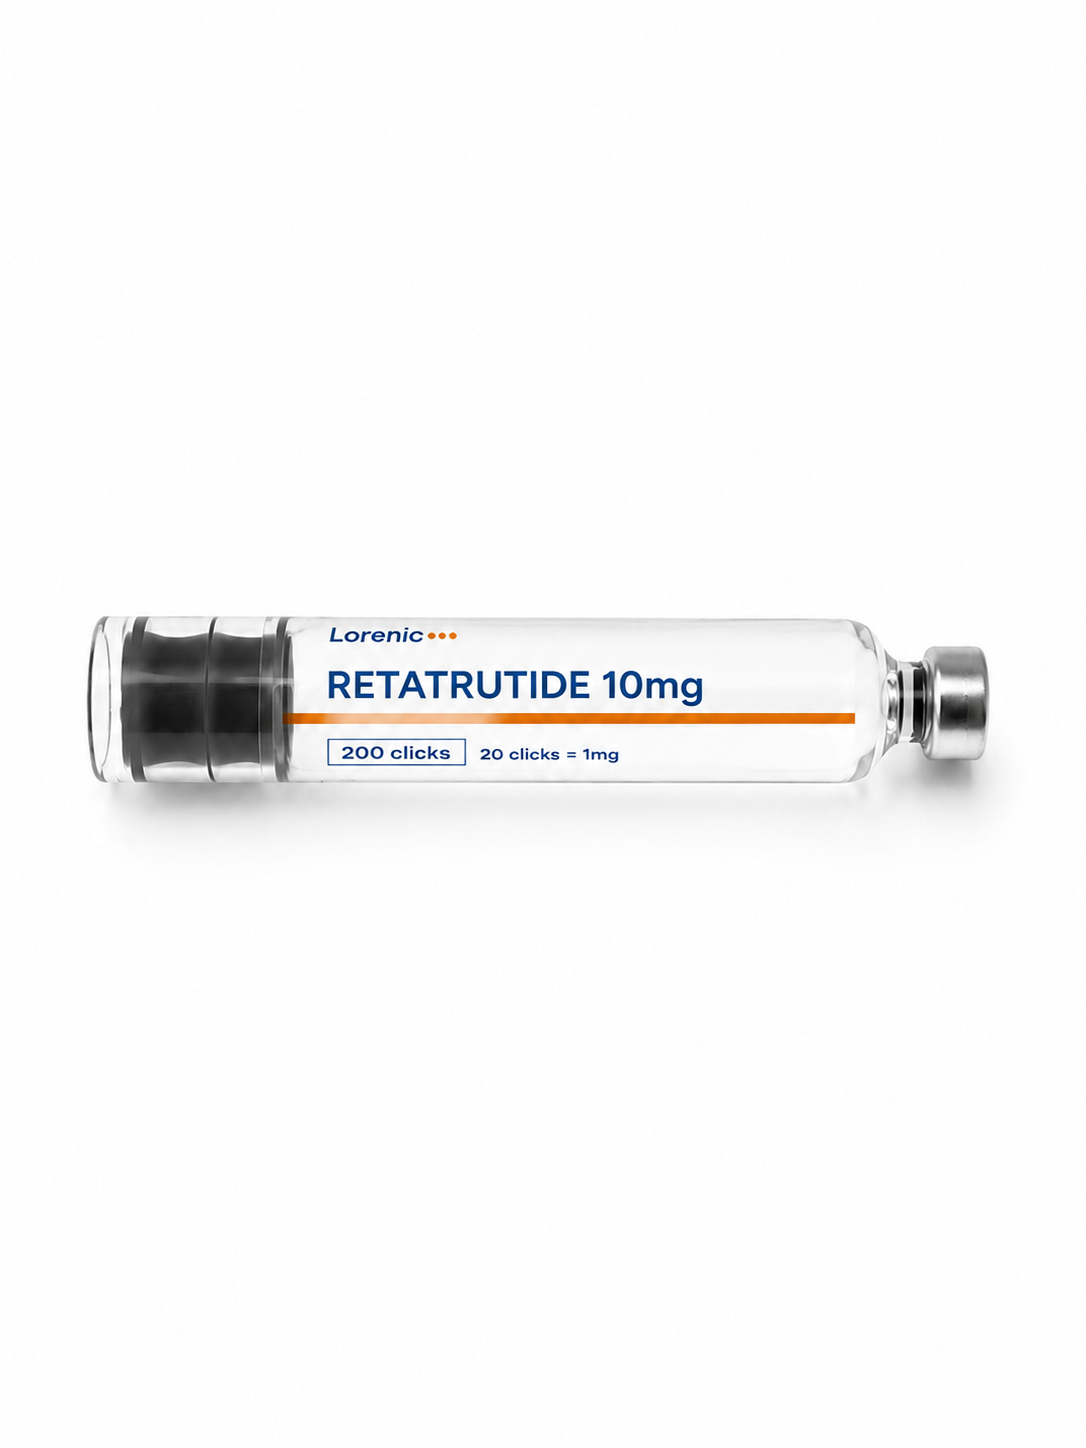
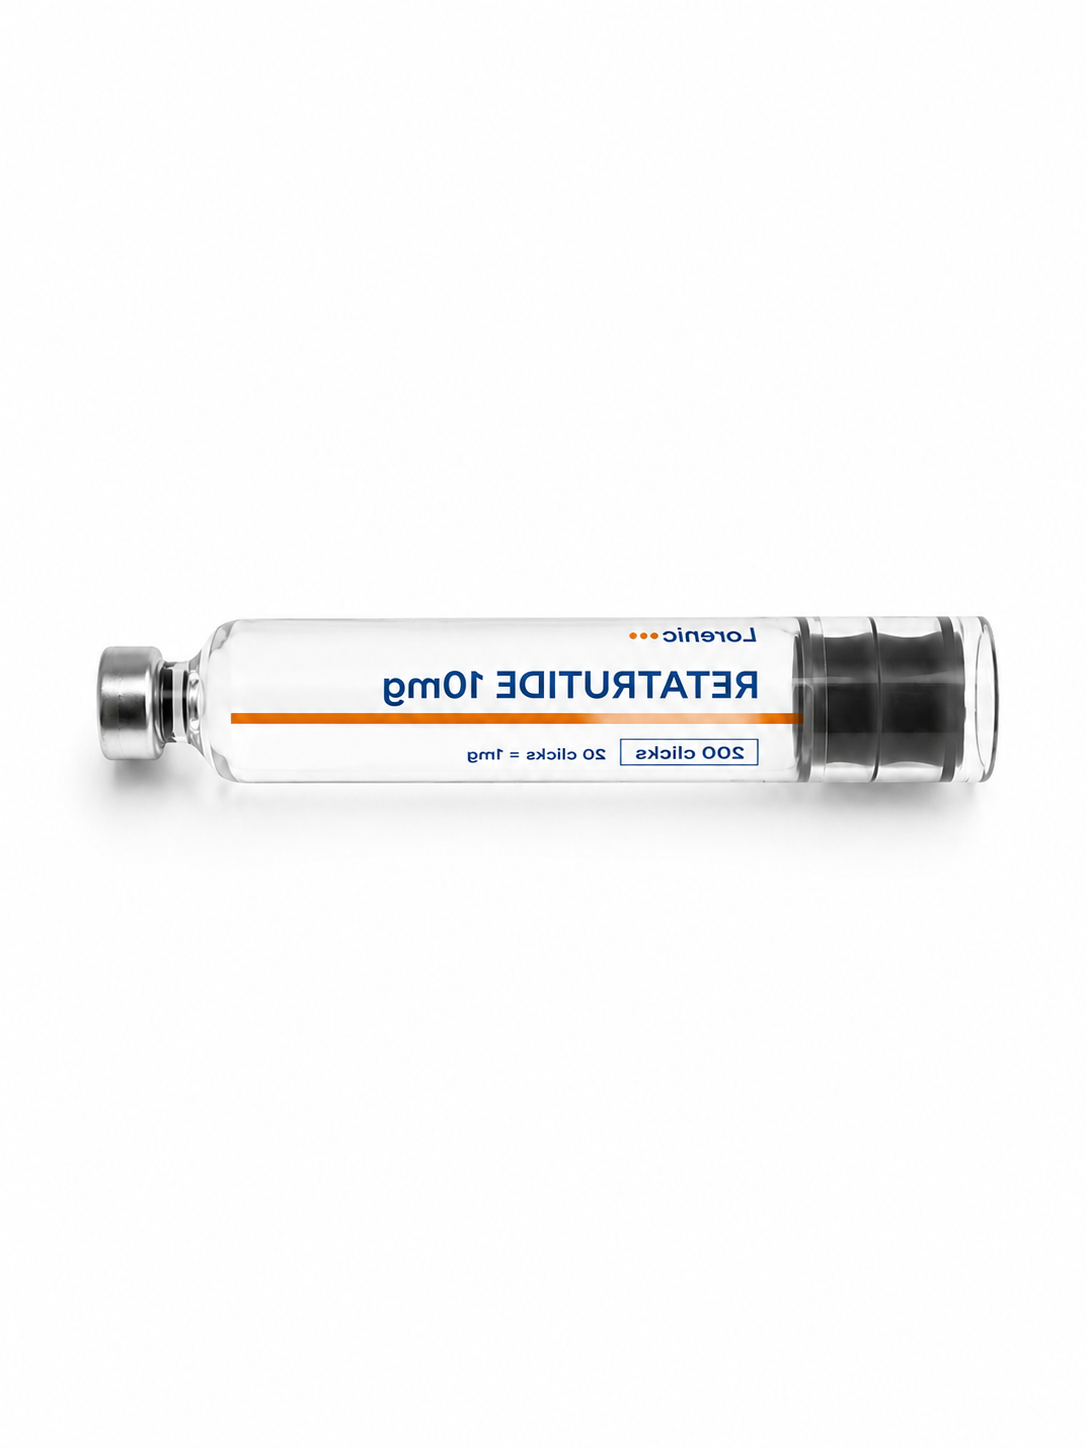
Add new products (KPV, Semax, Selank, HGH, Tirzepatide, Semaglutide, Glutathione), flip retatrutide image, update email to cs@lorenic.id, add WhatsApp contact 087769004800, randomize reviews with roles, and refine package image container

Changed region(s): [[0.3039, 0.4351, 0.6989, 0.5283], [0.6989, 0.404, 0.942, 0.5905], [0.0608, 0.404, 0.3039, 0.5905]]

diff --git a/components/reviews.tsx b/components/reviews.tsx
@@ -1,46 +1,69 @@
+'use client'
+
+import { useEffect, useState } from 'react'
 import { Star } from 'lucide-react'
 import { Reveal, Stagger, StaggerItem } from '@/components/reveal'
 
-const reviews = [
+const ALL_REVIEWS = [
   {
-    body: 'Protokolnya jelas, tim sangat responsif, dan produk tiba dalam kondisi sempurna. Tidak ada yang dibiarkan menebak-nebak.',
-    initial: 'A',
-    name: 'Andreas',
-    detail: '44, Pengusaha',
-  },
-  {
-    body: 'Akhirnya ada brand yang menunjukkan hasil labnya. Saya merekomendasikannya kepada siapa saja yang serius tentang kesehatan jangka panjang.',
+    body: 'Sebagai pendiri startup biotech, saya mengutamakan transparansi data uji lab di atas segalanya. Lorenic memberikan standar COA Eropa yang konsisten di setiap batch.',
     initial: 'M',
-    name: 'Michael',
-    detail: '42, Pendiri',
+    name: 'Michael S.',
+    detail: 'Pendiri & Biohacker (38th)',
   },
   {
-    body: 'Konsultasi gratis memberikan perbedaan besar. Mereka benar-benar memahami apa yang saya cari.',
-    initial: 'S',
-    name: 'Sofia',
-    detail: '35, Atlet',
-  },
-  {
-    body: 'Kualitas premium tanpa keraguan. Semuanya terdokumentasi dengan sangat baik.',
+    body: 'Protokolnya sangat rinci dan didukung penjelasan ilmiah yang solid. Kualitas peptida yang sangat konsisten untuk penelitian regeneratif.',
     initial: 'D',
-    name: 'David',
-    detail: '51, Eksekutif',
+    name: 'Dr. Hendra W.',
+    detail: 'Dokter Spesialis Regeneratif & Longevity (45th)',
   },
   {
-    body: 'Saya telah mencoba beberapa sumber peptida. Lorenic adalah satu-satunya yang menyediakan COA tanpa harus diminta.',
+    body: 'Format pen dan cartridge pra-terukur sangat memudahkan pemakaian rutin tanpa ribet. Pengiriman cold chain juga menjaga potensi peptida tetap 100%.',
+    initial: 'S',
+    name: 'Sofia R.',
+    detail: 'Atlet Profesional & Bio-Optimizer (29th)',
+  },
+  {
+    body: 'Layanan konsultasi gratisnya sangat membantu menjawab pertanyaan spesifik mengenai riset kami. Tim sangat responsif dan paham sains peptida.',
+    initial: 'A',
+    name: 'Andreas K.',
+    detail: 'Peneliti Klinis Independen (41th)',
+  },
+  {
+    body: 'Lorenic adalah satu-satunya penyedia peptida riset di mana kita bisa memeriksa COA instan melalui QR code pada setiap kemasan fisik.',
     initial: 'R',
-    name: 'Rafael',
-    detail: '38, Dokter Umum',
+    name: 'Reza A.',
+    detail: 'Pendiri Komunitas Health & Performance (34th)',
   },
   {
-    body: 'Saya sangat mengapresiasi transparansinya. COA dapat diperiksa secara instan dan tim merespons dengan cepat.',
+    body: 'Kualitas dan kemurnian peptida sangat terasa dari stabilitas hasilnya. Kemasan dingin dan segel laboratoriumnya sangat profesional.',
     initial: 'T',
-    name: 'Tanja',
-    detail: '39, Konsultan',
+    name: 'Tanja M.',
+    detail: 'Konsultan Kesehatan & Anti-Aging (39th)',
+  },
+  {
+    body: 'Pelayanan cepat, pengiriman aman, dan sertifikat pengujian independen selalu disertakan. Sangat direkomendasikan!',
+    initial: 'B',
+    name: 'Budi H.',
+    detail: 'Eksekutif & Praktisi Longevity (48th)',
+  },
+  {
+    body: 'BPC-157 dan Retatrutide dari Lorenic memberikan standar tingkat tinggi yang sulit ditemukan di penyedia lain.',
+    initial: 'K',
+    name: 'Kevin L.',
+    detail: 'Biohacker & Formulator (32th)',
   },
 ]
 
 export function Reviews() {
+  const [displayReviews, setDisplayReviews] = useState(ALL_REVIEWS.slice(0, 6))
+
+  useEffect(() => {
+    // Shuffle reviews slightly on load for dynamic variation
+    const shuffled = [...ALL_REVIEWS].sort(() => 0.5 - Math.random())
+    setDisplayReviews(shuffled.slice(0, 6))
+  }, [])
+
   return (
     <section id="ulasan" className="bg-secondary py-16 md:py-24">
       <div className="mx-auto w-full max-w-6xl px-4 sm:px-6">
@@ -55,14 +78,14 @@ export function Reviews() {
               ))}
             </span>
             <span className="text-sm font-medium text-muted-foreground">
-              <strong className="text-foreground">4.9</strong> dari 107 ulasan
+              <strong className="text-foreground">4.95</strong> dari 142 ulasan
               terverifikasi
             </span>
           </div>
         </Reveal>
 
         <Stagger className="mt-12 grid gap-4 sm:gap-6 md:grid-cols-2 lg:grid-cols-3">
-          {reviews.map((review) => (
+          {displayReviews.map((review) => (
             <StaggerItem
               key={review.name + review.detail}
               className="flex flex-col rounded-2xl border border-border bg-card p-6"

diff --git a/lib/products.ts b/lib/products.ts
@@ -52,10 +52,30 @@ export const products: Product[] = [
     name: 'Retatrutide 10mg',
     category: 'PENURUNAN LEMAK & PEMBENTUKAN OTOT',
     image: getAssetPath('/products/retatrutide.jpeg'),
-    tagline: 'Agonis tiga reseptor yang dipelajari untuk komposisi tubuh.',
+    tagline: 'Agonis tiga reseptor (GLP-1/GIP/Glukagon) untuk komposisi tubuh.',
     description:
       'Retatrutide adalah agonis tiga reseptor (GLP-1 / GIP / glukagon) yang dipelajari dalam konteks riset untuk efeknya terhadap keseimbangan energi, sinyal nafsu makan, dan komposisi tubuh. Disediakan dalam cartridge riset 10mg.',
     dosage: '200 klik · 20 klik = 1mg',
+  },
+  {
+    slug: 'tirzepatide',
+    name: 'Tirzepatide 10mg',
+    category: 'PENURUNAN LEMAK & METABOLISME',
+    image: getAssetPath('/products/tirzepatide.jpeg'),
+    tagline: 'Agonis ganda reseptor GLP-1 & GIP untuk regulasi gula darah & metabolik.',
+    description:
+      'Tirzepatide menggabungkan stimulasi reseptor GIP dan GLP-1 yang dipelajari secara luas untuk penurunan berat badan, sensitivitas insulin, dan manajemen metabolik.',
+    dosage: '200 klik · 20 klik = 1mg',
+  },
+  {
+    slug: 'semaglutide',
+    name: 'Semaglutide 5mg',
+    category: 'METABOLISME & KONTROL NAFSU MAKAN',
+    image: getAssetPath('/products/semaglutide.jpeg'),
+    tagline: 'Agonis reseptor GLP-1 yang dipelajari untuk manajemen berat badan.',
+    description:
+      'Semaglutide adalah peptida agonis GLP-1 yang diriset untuk manajemen berat badan, regulasi glukosa darah, dan penekanan sinyal lapar.',
+    dosage: '200 klik · 20 klik = 0.5mg',
   },
   {
     slug: 'cjc-1295-ipamorelin',
@@ -66,6 +86,56 @@ export const products: Product[] = [
     description:
       'Kombinasi sinergis dari CJC-1295 (No DAC), analog GHRH, dan Ipamorelin, sekretagog hormon pertumbuhan selektif. Dipelajari bersama untuk pelepasan hormon pertumbuhan impulsif, pemulihan, dan penunjang jaringan otot.',
     dosage: '200 klik · 20 klik = 1mg',
+  },
+  {
+    slug: 'hgh',
+    name: 'HGH (Somatropin) 10IU',
+    category: 'REGENERASI & ANABOLISME',
+    image: getAssetPath('/products/hgh.jpeg'),
+    tagline: 'Hormon rekombinan Somatropin untuk regenerasi sel dan anabolisme.',
+    description:
+      'HGH (Human Growth Hormone / Somatropin) dipelajari untuk stimulasi pertambahan massa otot, pemulihan jaringan ikat, peningkatan kepadatan tulang, dan anti-penuaan.',
+    dosage: '200 klik · 20 klik = 1IU',
+  },
+  {
+    slug: 'kpv',
+    name: 'KPV 10mg',
+    category: 'ANTI-INFLAMASI & IMUNITAS',
+    image: getAssetPath('/products/kpv.jpeg'),
+    tagline: 'Tripeptida turunan alpha-MSH untuk efek anti-inflamasi kuat.',
+    description:
+      'KPV (Lys-Pro-Val) adalah tripeptida yang diteliti untuk kemampuannya meredakan peradangan usus, mempercepat penyembuhan luka, serta meredakan respon imun berlebih.',
+    dosage: '200 klik · 20 klik = 1mg',
+  },
+  {
+    slug: 'semax',
+    name: 'Semax 10mg',
+    category: 'NOOTROPIK & FOKUS KOGNITIF',
+    image: getAssetPath('/products/semax.jpeg'),
+    tagline: 'Peptida nootropik untuk BDNF, fokus mental, dan neuroproteksi.',
+    description:
+      'Semax adalah peptida sintetis turunan ACTH yang dipelajari untuk peningkatan fungsi kognitif, kejelasan mental, memori, serta perlindungan sel saraf dari stres oksidatif.',
+    dosage: '200 klik · 20 klik = 1mg',
+  },
+  {
+    slug: 'selank',
+    name: 'Selank 10mg',
+    category: 'ANSIOLITIK & KESEHATAN MENTAL',
+    image: getAssetPath('/products/selank.jpeg'),
+    tagline: 'Peptida imunomodulator & ansiolitik untuk relaksasi tanpa kantuk.',
+    description:
+      'Selank adalah peptida turunan Tuftsin yang diriset untuk modulasi kecemasan, stabilisasi mood, serta dukungan kesehatan mental tanpa efek sedatif.',
+    dosage: '200 klik · 20 klik = 1mg',
+  },
+  {
+    slug: 'glutathione',
+    name: 'Glutathione 1500mg',
+    category: 'ANTIOKSIDAN & DETOKSIFIKASI',
+    image: getAssetPath('/products/glutathione.jpeg'),
+    tagline: 'Antioksidan master seluler untuk detoksifikasi dan kesehatan sel.',
+    description:
+      'Glutathione adalah antioksidan paling utama dalam tubuh seluler yang diriset untuk netralisasi radikal bebas, kesehatan hati, serta pencerahan & regenerasi jaringan.',
+    dosage: '200 klik · 20 klik = 150mg',
   },
   {
     slug: 'klow80',

diff --git a/components/site-footer.tsx b/components/site-footer.tsx
@@ -18,7 +18,7 @@ export function SiteFooter() {
           </div>
           <div className="flex flex-col gap-3 sm:flex-row lg:justify-end">
             <Button
-              render={<a href="https://wa.me/6280000000000" />}
+              render={<a href="https://wa.me/6287769004800" target="_blank" rel="noreferrer" />}
               size="lg"
               className="gap-2 bg-accent text-accent-foreground hover:bg-accent/90"
             >
@@ -26,7 +26,7 @@ export function SiteFooter() {
               Chat dengan Kami
             </Button>
             <Button
-              render={<a href="mailto:hello@lorenic.com" />}
+              render={<a href="mailto:cs@lorenic.id" />}
               size="lg"
               variant="outline"
               className="gap-2 border-primary-foreground/30 bg-transparent text-primary-foreground hover:bg-primary-foreground/10 hover:text-primary-foreground"
@@ -97,10 +97,16 @@ export function SiteFooter() {
             </h3>
             <ul className="mt-4 flex flex-col gap-3 text-sm text-primary-foreground/80">
               <li className="flex items-center gap-2">
-                <Mail className="size-4 text-accent" /> hello@lorenic.com
+                <Mail className="size-4 text-accent" /> cs@lorenic.id
+              </li>
+              <li className="flex items-center gap-2">
+                <MessageCircle className="size-4 text-accent" />
+                <a href="https://wa.me/6287769004800" target="_blank" rel="noreferrer" className="hover:text-accent">
+                  087769004800
+                </a>
               </li>
               <li className="flex items-start gap-2">
-                <MapPin className="mt-0.5 size-4 text-accent" /> Pengiriman ke seluruh Eropa &amp; dunia
+                <MapPin className="mt-0.5 size-4 text-accent" /> Pengiriman ke seluruh Eropa &amp; Indonesia
               </li>
             </ul>
           </div>

diff --git a/components/formats.tsx b/components/formats.tsx
@@ -35,13 +35,13 @@ export function Formats() {
               key={format.name}
               className="flex flex-col overflow-hidden rounded-3xl border border-border bg-card"
             >
-              <div className="relative aspect-[4/3] bg-secondary">
+              <div className="relative aspect-[4/3] bg-white">
                 <Image
                   src={getAssetPath(format.image || '/placeholder.svg')}
                   alt={`Lorenic ${format.name}`}
                   fill
                   sizes="(max-width: 768px) 100vw, 50vw"
-                  className="object-cover"
+                  className="object-contain p-4 transition-transform duration-300 hover:scale-105"
                 />
               </div>
               <div className="p-6 sm:p-8">

diff --git a/components/verify-result.tsx b/components/verify-result.tsx
@@ -116,7 +116,7 @@ export function NotVerifiedResult({ code }: { code?: string }) {
             segera hubungi tim kami untuk bantuan.
           </p>
           <Button
-            render={<a href="https://wa.me/6280000000000" target="_blank" rel="noreferrer" />}
+            render={<a href="https://wa.me/6287769004800" target="_blank" rel="noreferrer" />}
             className="mt-5 w-full bg-primary text-primary-foreground hover:bg-primary/90"
           >
             Hubungi Tim Lorenic

diff --git a/components/consultation-modal.tsx b/components/consultation-modal.tsx
@@ -14,8 +14,8 @@ import { ShieldCheck, ShieldAlert, X } from 'lucide-react'
 import { Button } from '@/components/ui/button'
 
 // Official Lorenic consultation contact.
-const WHATSAPP_DISPLAY = '+62 812 1857 8868'
-const WHATSAPP_NUMBER = '6281218578868'
+const WHATSAPP_DISPLAY = '087769004800'
+const WHATSAPP_NUMBER = '6287769004800'
 
 type ConsultationContextValue = {
   open: () => void
